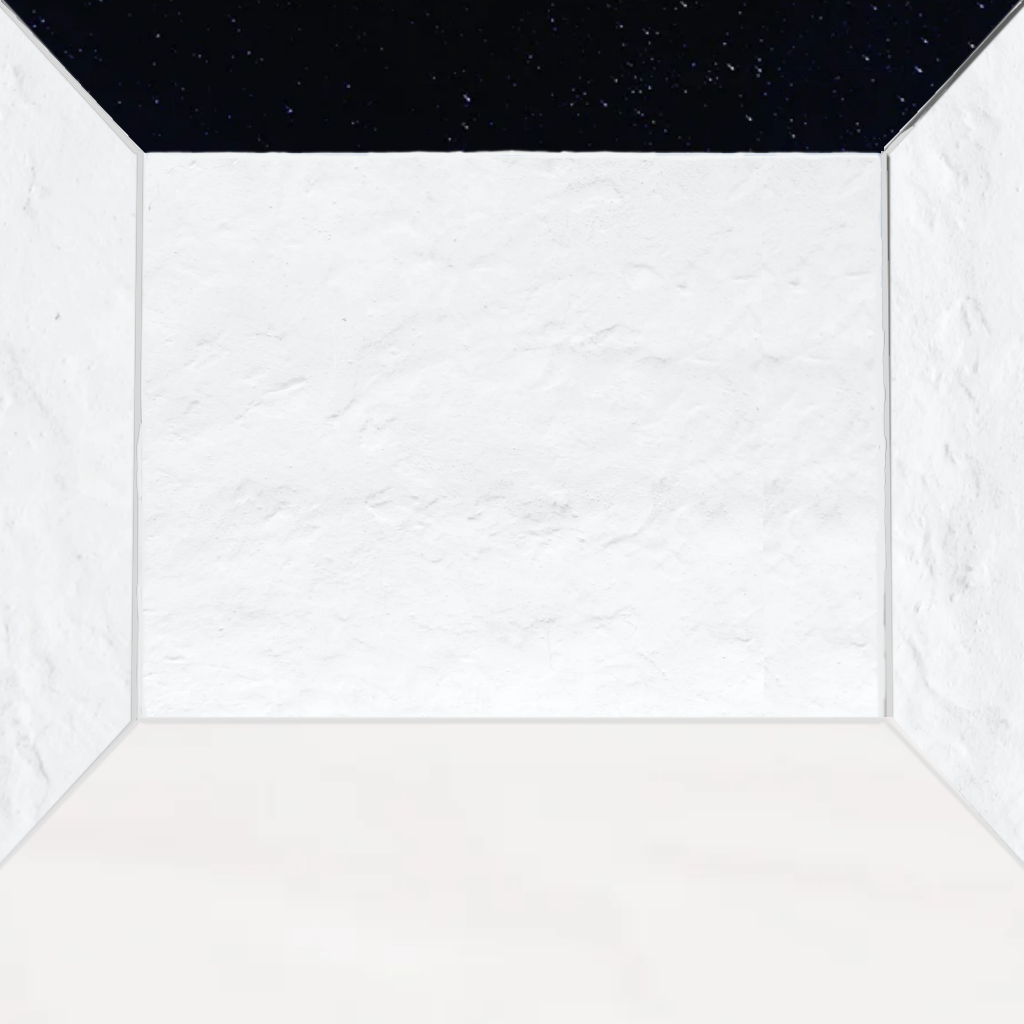
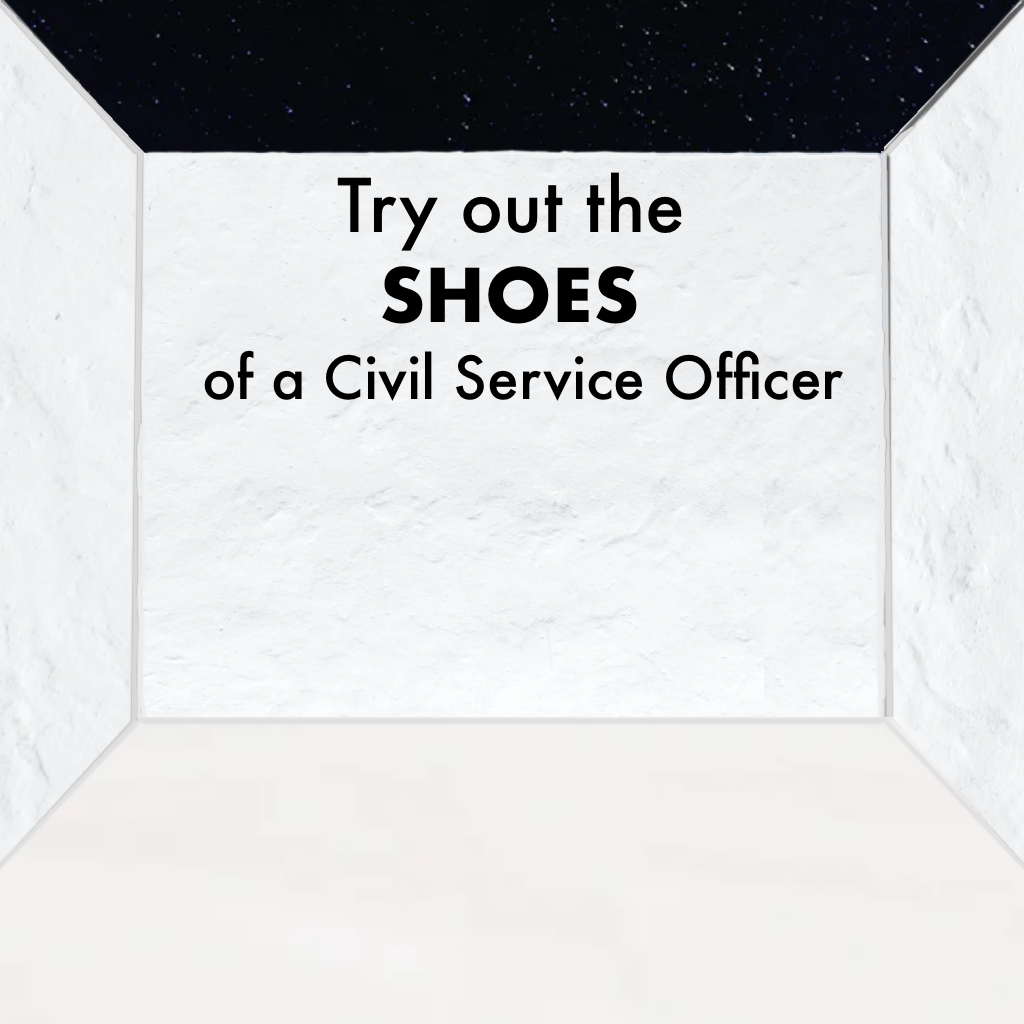
added blue and white room

Changed region(s): [[0.1875, 0.3438, 0.8125, 0.4062], [0.3125, 0.1562, 0.6875, 0.3125]]

diff --git a/impactHack/js/roomElems.js b/impactHack/js/roomElems.js
@@ -15,9 +15,9 @@ var parameters, viewer, radius, button, position, infospot, timerId, easingItem,
 
   // Init rooms
   blackRoom = new PANOLENS.ImagePanorama('https://michelleFae.github.io/impactHack/assets/cubeWalls/blackRoom/finalRoom.png');
-  whiteRoom = new PANOLENS.ImagePanorama('https://michelleFae.github.io/impactHack/assets/cubeWalls/whiteRoom/resizedImage/whiteRoomEmpty.png');
+  whiteRoom = new PANOLENS.ImagePanorama('https://michelleFae.github.io/impactHack/assets/cubeWalls/whiteRoom/resizedImage/whiteRoom.png');
   redRoom = new PANOLENS.ImagePanorama('https://michelleFae.github.io/impactHack/assets/cubeWalls/redRoom/redRoom.png');
-  blueRoom = new PANOLENS.ImagePanorama('https://michelleFae.github.io/impactHack/assets/cubeWalls/blueRoom/walls/BlueRoomEmpty1.png');
+  blueRoom = new PANOLENS.ImagePanorama('https://michelleFae.github.io/impactHack/assets/cubeWalls/blueRoom/walls/blueRoom.png');
 
   // Recording image dimensions
   const { edgeLength } = blackRoom;
